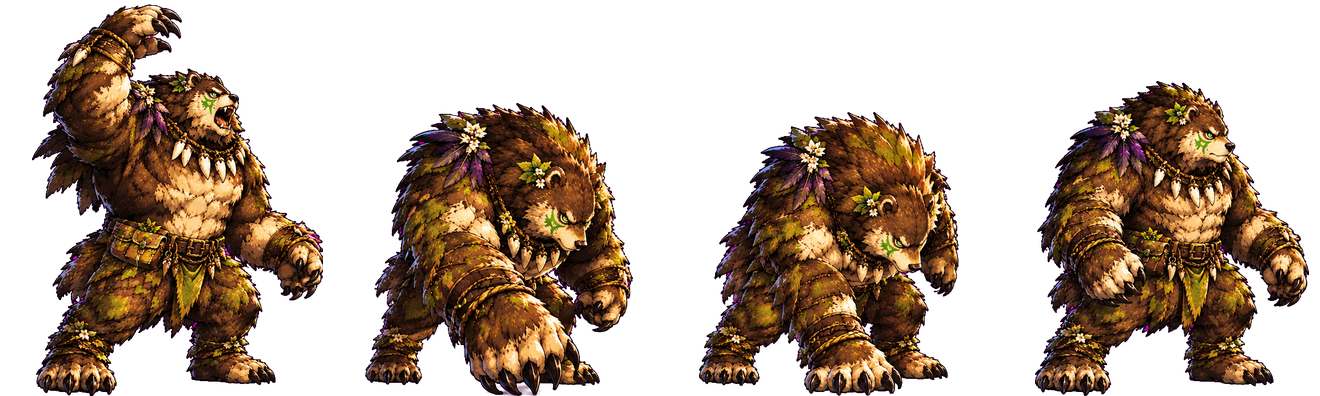
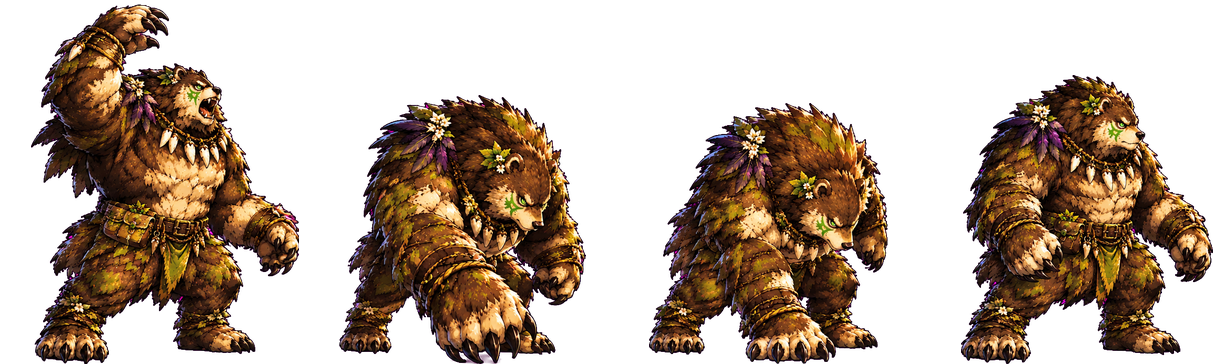
v0.2.0.0078: 곰·늑대인간 공격 그림 크기 추가 축소 (수치 변경 없음)
Claude-Session: https://claude.ai/code/session_01XgMamwA2MFesNFKDoCmsPA

diff --git a/index.html b/index.html
@@ -423,7 +423,7 @@ body.hud-norank #dmgRank,body.hud-nocombo #combo,body.hud-nolvpen #lvPen{display
   </div>
 
   <section class="screen" id="sTitle">
-    <div class="ver" id="verT">v0.2.0.0077</div>
+    <div class="ver" id="verT">v0.2.0.0078</div>
     <button class="gearT" id="bSet" aria-label="설정">⚙</button>
     <div class="eyebrow">DARK GUARDIAN</div>
     <h1>어둠의 수호자</h1>
